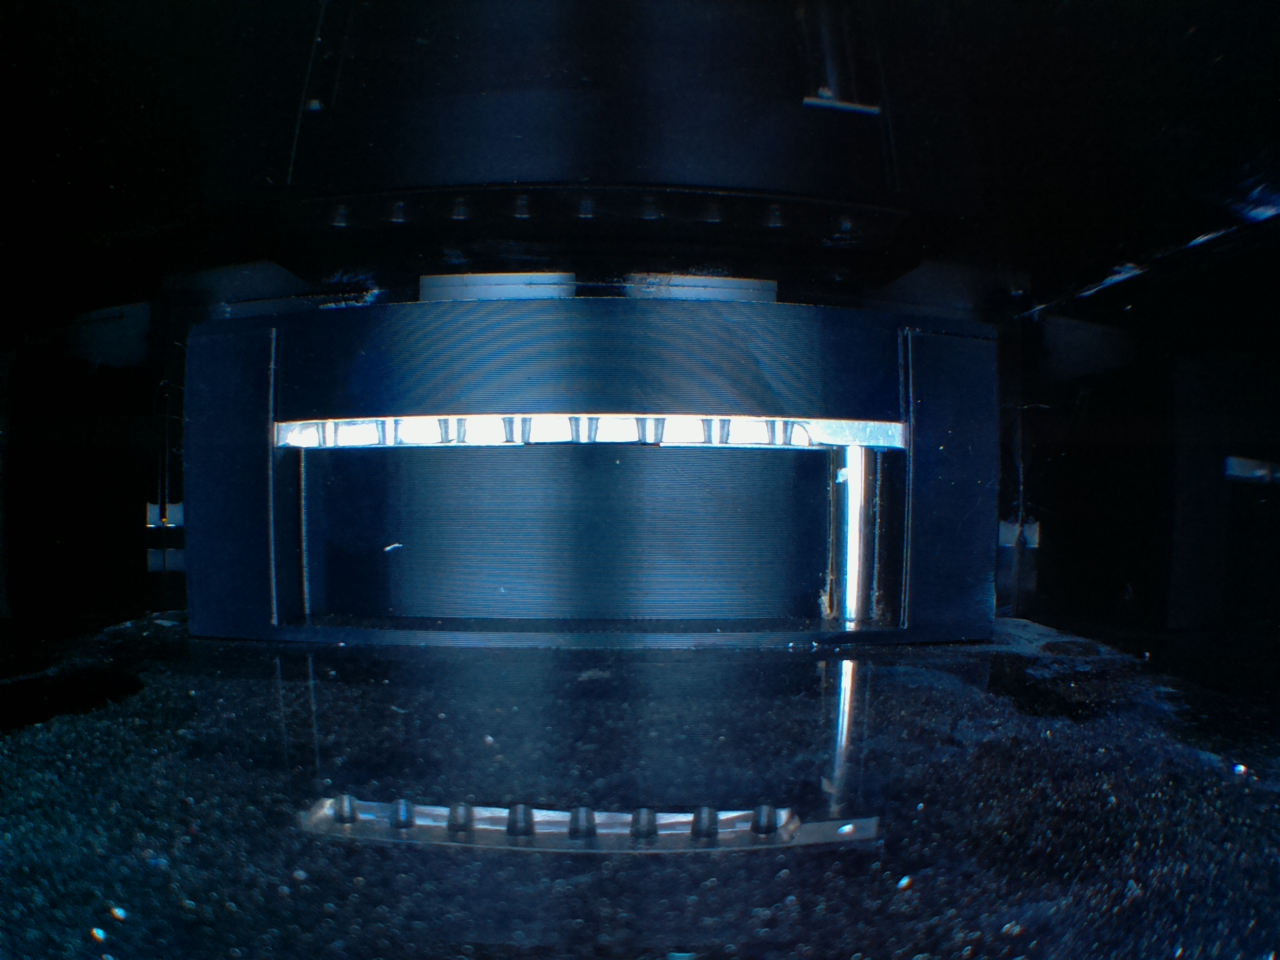
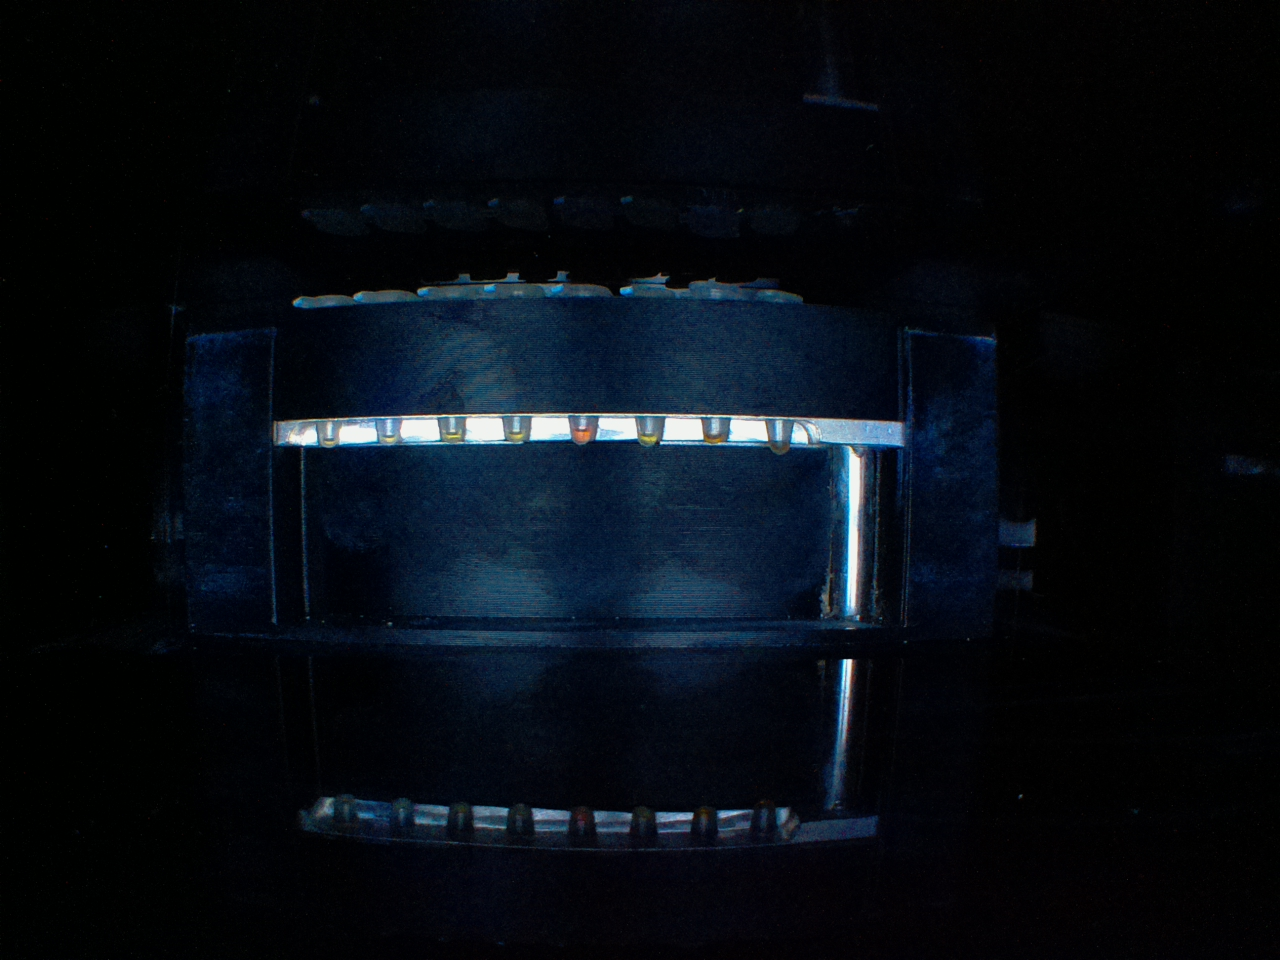
thêm ss 14000 và awb auto

diff --git a/testtubenew-v4.py b/testtubenew-v4.py
@@ -101,16 +101,7 @@ CROP_Y1 = 345
 CROP_Y2 = 455
 CROP_X1 = 290
 CROP_X2 = 840
-# regions = {
-#     "tube_1": (33, 26, 48, 52),
-#     "tube_2": (66, 26, 84, 50),
-#     "tube_3": (101, 26, 120, 50),
-#     "tube_4": (139, 26, 156, 50),
-#     "tube_5": (176, 26, 193, 50),
-#     "tube_6": (212, 26, 229, 50),
-#     "tube_7": (251, 26, 266, 50),
-#     "tube_8": (286, 30, 298, 52)
-# }
+
 
 # Function to convert hue to pH
 def hue_to_ph(hue):
@@ -214,13 +205,14 @@ def capture_image_from_camera(output_path='captured_image.jpg'):
         # Construct the raspistill command
         command = [
             'raspistill',
-            '-o', output_path,
-            '-ex', 'night',
+            '-o', output_path,            
             '-w', '1280',
             '-h', '960',
             '-q', '85',
-            '-t', '2000',
-            '-hf','-vf'  # 2 seconds delay before capture
+            '-t', '1000',
+            '-hf','-vf',
+            '-ss','14000',
+            '-awb','auto' # 2 seconds delay before capture
         ]
 
         # Use subprocess.Popen for better control
